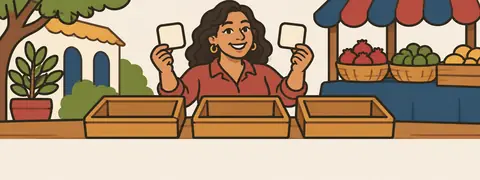
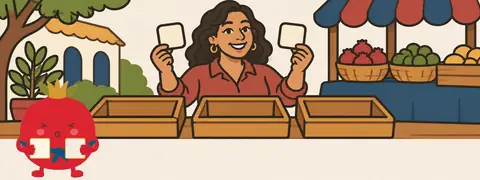
Seven Level 1–2 arcade games (Letter Twins, Look-Alike Sorter, Letter Drop, Vowel Stack, Word Builder, Meltdown, Letter Bingo) get Rimon beside Ari or Noa on their own picture, on the card and inside the game

Changed region(s): [[0.0312, 0.4444, 0.2188, 1.0]]

diff --git a/src/games/env-webp.js b/src/games/env-webp.js
@@ -1,5 +1,5 @@
 // Games whose backdrop is assets/games/arcade/<id>/env.webp and whose card picture is assets/img/arcade-thumbs/<id>.{480,800}.webp,
 // made from pictures already in the app (tools/images/lane-envs.json, tools/images/cast-onto-envs.json, tools/images/cast-new-games.json). Owner, 2026-11-12: no game without a picture.
-export const ENV_WEBP = new Set(["archbuilder", "barter", "bubbleword", "ciphergrid", "dreidel-duo", "fallingletters", "finalfive", "flapvowel", "g1-blend", "g1-dagesh", "g1-duel", "g1-finalswitch", "g1-flashread", "g1-gaptrain", "g1-helpers", "g1-nonsense", "g1-reveal", "g1-rhythm", "g1-riverhop", "g1-script", "g1-shva", "g1-sounddash", "g1-sounddots", "g1-soundpairs", "g1-strokeorder", "g1-syllablecut", "g1-vowelchain", "g1-whereis", "g2-bodymap", "g2-chain", "g2-clues", "g2-dayafter", "g2-dominoes", "g2-endings", "g2-familytree", "g2-firstletter", "g2-fourgroups", "g2-hive", "g2-ladder", "g2-lineup", "g2-oddone", "g2-paintpots", "g2-popup", "g2-snap", "g2-sortrush", "g2-street", "g2-trail", "g2-whereami", "g3-agree", "g3-arrows", "g3-chains", "g3-clues", "g3-conveyor", "g3-decoder", "g3-gate", "g3-grid", "g3-lostfound", "g3-mirror", "g3-negate", "g3-onetwomany", "g3-packcheck", "g3-press", "g3-questions", "g3-repair", "g3-shop", "g3-sieve", "g3-swapfix", "g3-whack", "g4-bell", "g4-busboard", "g4-cafe", "g4-change", "g4-clock", "g4-emergency", "g4-falafel", "g4-greetings", "g4-grid", "g4-hours", "g4-menu", "g4-pharmacy", "g4-phone", "g4-shuk", "g4-signs", "g4-slang", "g4-tone", "g4-tourist", "g4-weather", "g4-week", "g5-bless", "g5-fireworks", "g5-gifts", "g5-greet", "g5-grogger", "g5-harvest", "g5-kippur", "g5-mend", "g5-omer", "g5-plate", "g5-questions", "g5-readings", "g5-scroll", "g5-shofar", "g5-simanim", "g5-species", "g5-stars", "g5-steps", "g5-sukkah", "g5-table", "gendersplit", "hanukkah-candles", "hanukkah-charades", "hanukkah-colour", "hanukkah-count", "hanukkah-dreidel1", "hanukkah-dreidel2", "hanukkah-forbidden", "hanukkah-gelthunt", "hanukkah-hiddenlights", "hanukkah-jumble", "hanukkah-pairs", "hanukkah-saveflame", "hanukkah-slide", "lasermaze", "letterbridge", "letterchomp", "lettercrush", "lettersudoku", "listenspot", "memorypalace", "minicross", "mitzvot613", "museumcurator", "noahseven", "petclinic", "pinball", "pluralpop", "prefixblast", "quizladder", "quizladder-duo", "rentalagent", "rhymelab", "rootbuilder", "roottree", "scramble", "sentencetrain", "shabbatrush", "shadowcraft", "shuktaxi", "soundsnap", "speedtype", "sprint60", "submarinesonar", "syllablesnake", "tenwords", "tg-family", "tg-holidays", "tg-letterhunt", "tg-numerals", "tg-parashah", "tg-storyorder", "tg-tilepairs", "tg-torahwords", "tg-tropehunt", "tg-verbslots", "tg-whosaid", "tg-wordguess", "trainswitch", "trueornot", "tugowar", "typewriter", "vowelcatcher", "weatherstudio", "wordfinder", "wordfinder-listen", "wordmaze", "wordsearch"]);
+export const ENV_WEBP = new Set(["archbuilder", "barter", "bingoletters", "bubbleword", "ciphergrid", "dreidel-duo", "fallingletters", "finalfive", "flapvowel", "g1-blend", "g1-dagesh", "g1-duel", "g1-finalswitch", "g1-flashread", "g1-gaptrain", "g1-helpers", "g1-nonsense", "g1-reveal", "g1-rhythm", "g1-riverhop", "g1-script", "g1-shva", "g1-sounddash", "g1-sounddots", "g1-soundpairs", "g1-strokeorder", "g1-syllablecut", "g1-vowelchain", "g1-whereis", "g2-bodymap", "g2-chain", "g2-clues", "g2-dayafter", "g2-dominoes", "g2-endings", "g2-familytree", "g2-firstletter", "g2-fourgroups", "g2-hive", "g2-ladder", "g2-lineup", "g2-oddone", "g2-paintpots", "g2-popup", "g2-snap", "g2-sortrush", "g2-street", "g2-trail", "g2-whereami", "g3-agree", "g3-arrows", "g3-chains", "g3-clues", "g3-conveyor", "g3-decoder", "g3-gate", "g3-grid", "g3-lostfound", "g3-mirror", "g3-negate", "g3-onetwomany", "g3-packcheck", "g3-press", "g3-questions", "g3-repair", "g3-shop", "g3-sieve", "g3-swapfix", "g3-whack", "g4-bell", "g4-busboard", "g4-cafe", "g4-change", "g4-clock", "g4-emergency", "g4-falafel", "g4-greetings", "g4-grid", "g4-hours", "g4-menu", "g4-pharmacy", "g4-phone", "g4-shuk", "g4-signs", "g4-slang", "g4-tone", "g4-tourist", "g4-weather", "g4-week", "g5-bless", "g5-fireworks", "g5-gifts", "g5-greet", "g5-grogger", "g5-harvest", "g5-kippur", "g5-mend", "g5-omer", "g5-plate", "g5-questions", "g5-readings", "g5-scroll", "g5-shofar", "g5-simanim", "g5-species", "g5-stars", "g5-steps", "g5-sukkah", "g5-table", "gendersplit", "hanukkah-candles", "hanukkah-charades", "hanukkah-colour", "hanukkah-count", "hanukkah-dreidel1", "hanukkah-dreidel2", "hanukkah-forbidden", "hanukkah-gelthunt", "hanukkah-hiddenlights", "hanukkah-jumble", "hanukkah-pairs", "hanukkah-saveflame", "hanukkah-slide", "lasermaze", "letterbridge", "letterchomp", "lettercrush", "letterdrop", "lettersudoku", "lettertwins", "listenspot", "lookalikes", "meltdown", "memorypalace", "minicross", "mitzvot613", "museumcurator", "noahseven", "petclinic", "pinball", "pluralpop", "prefixblast", "quizladder", "quizladder-duo", "rentalagent", "rhymelab", "rootbuilder", "roottree", "scramble", "sentencetrain", "shabbatrush", "shadowcraft", "shuktaxi", "soundsnap", "speedtype", "sprint60", "submarinesonar", "syllablesnake", "tenwords", "tg-family", "tg-holidays", "tg-letterhunt", "tg-numerals", "tg-parashah", "tg-storyorder", "tg-tilepairs", "tg-torahwords", "tg-tropehunt", "tg-verbslots", "tg-whosaid", "tg-wordguess", "trainswitch", "trueornot", "tugowar", "typewriter", "vowelcatcher", "vowelstack", "weatherstudio", "wordbuilder", "wordfinder", "wordfinder-listen", "wordmaze", "wordsearch"]);
 /** Games with their own backdrop already, where only the card picture was missing. */
 export const CARD_ONLY = new Set(["barter", "bumperverbs", "karaokebeat", "roottree"]);
